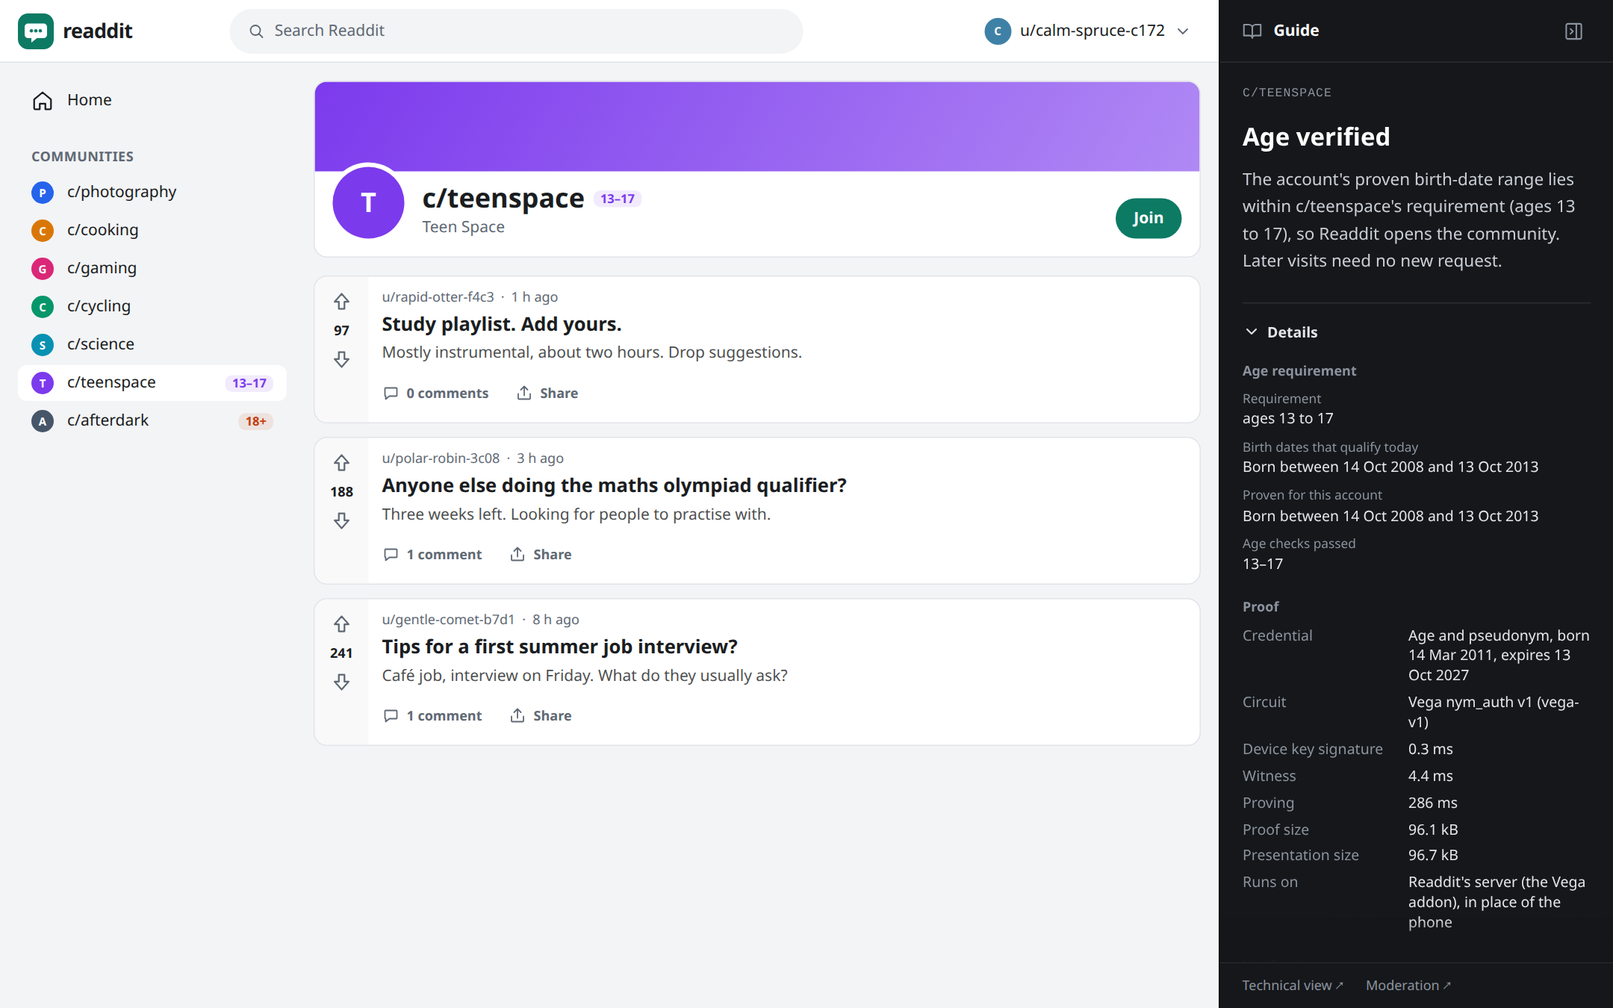
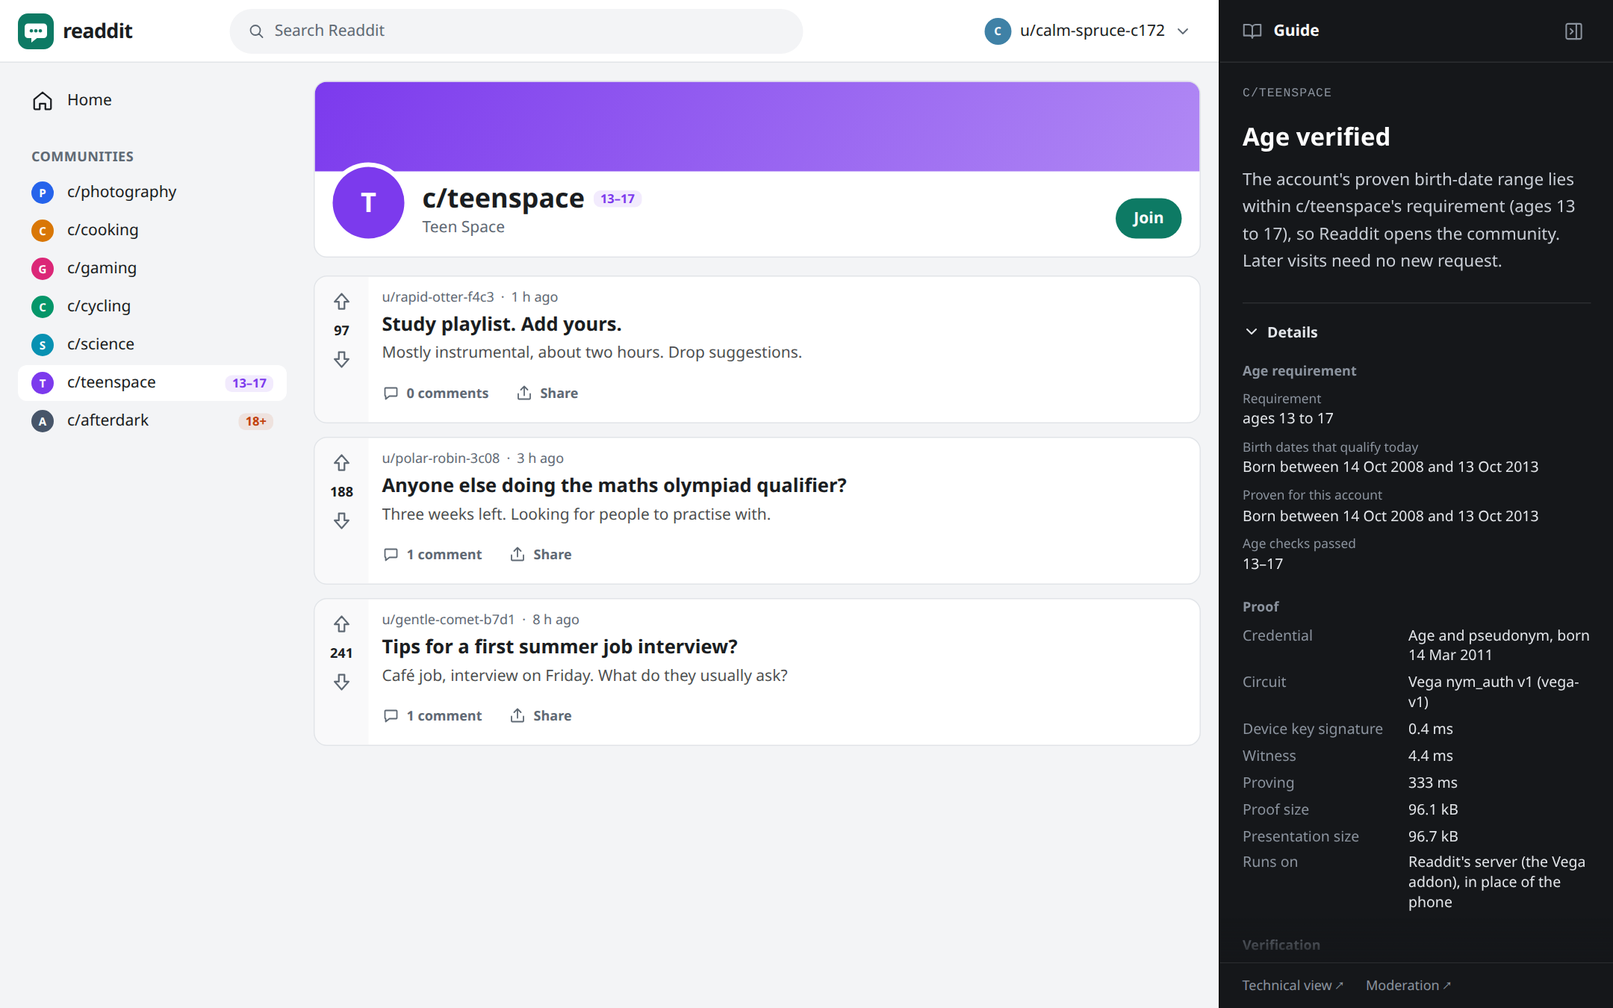
Wallet: the birth date on every credential card; no expiry shown
At Frédéric's request each nym_auth credential shows its holder's birth
date, labelled "Birth Date" and written DD/MM/YYYY as the SIROS ID app
writes dates: on the home cards, the detail page's card, the request
screen's credential box and both entries of the Switch credential
popup. It tells the two credentials apart, and stays on the phone:
nothing Readdit receives changes. The credentials do not expire, so no
expiry date is shown, as the SIROS ID app draws none for a credential
without one; the guide's credential details say "no expiry
(9999-12-31)".

The flows check now tells the credentials apart by their birth dates and
checks that no card shows an expiry date; the presentation order's
detail-page locator is exact. GETTING-STARTED and AGENTS describe the
birth dates, the non-expiring credentials and the re-issue with --keep.
The screenshots that show a card are regenerated, with the rest of both
runs.

Changed region(s): [[0.7755, 0.6222, 0.9926, 0.9333], [0.7755, 0.9333, 0.8065, 0.9644]]

diff --git a/app/components/wallet/Card.vue b/app/components/wallet/Card.vue
@@ -1,25 +1,34 @@
 <script setup lang="ts">
 import type { DisplayCredential } from '~/wallet/holder'
+import { sidDate } from '~/wallet/holder'
 
 // A credential card as the SIROS ID wallet draws one without issuer artwork:
 // packages/wallet-common/src/functions/CustomCredentialSvg.ts (829 × 504; background colour,
-// name at the top left, description below it, expiry at the bottom right). The reference sizes
-// the text for a 350 px card (Arial 35, 20 and 25); this 230 px phone card uses 1.5 times that,
-// so the text stays legible on a projector.
+// name at the top left, description below it, expiry at the bottom right, left empty when the
+// credential has none). The reference sizes the text for a 350 px card (Arial 35, 20 and 25); this
+// 230 px phone card uses 1.5 times that, so the text stays legible on a projector. A nym_auth card
+// also shows the holder's birth date with the wallet's claim label, which tells two credentials of
+// the same type apart.
 const props = defineProps<{ credential: DisplayCredential }>()
-const expiry = computed(() =>
-  props.credential.validUntil
-    ? new Date(props.credential.validUntil).toLocaleDateString('en-GB', { day: '2-digit', month: '2-digit', year: 'numeric', timeZone: 'UTC' })
-    : '',
-)
+const birth = computed(() => (props.credential.birthDate ? sidDate(props.credential.birthDate) : ''))
+const expiry = computed(() => (props.credential.validUntil ? sidDate(props.credential.validUntil) : ''))
 </script>
 
 <template>
-  <svg viewBox="0 0 829 504" class="block w-full rounded-xl" role="img" :aria-label="`${props.credential.title}, ${props.credential.issuer}`">
+  <svg
+    viewBox="0 0 829 504"
+    class="block w-full rounded-xl"
+    role="img"
+    :aria-label="`${props.credential.title}, ${props.credential.issuer}${birth ? `, birth date ${birth}` : ''}`"
+  >
     <rect width="100%" height="100%" :fill="props.credential.background" />
     <text x="50" y="96" font-family="Arial, Helvetica, sans-serif" font-size="52" :fill="props.credential.text">{{ props.credential.title }}</text>
     <text x="50" y="150" font-family="Arial, Helvetica, sans-serif" font-size="30" :fill="props.credential.text">{{ props.credential.issuer }}</text>
-    <text v-if="expiry" x="790" y="440" text-anchor="end" font-family="Arial, Helvetica, sans-serif" font-size="34" :fill="props.credential.text">
+    <!-- the bottom right, where the reference puts its date (the home slider's index sits at the bottom left) -->
+    <text v-if="birth" x="790" :y="expiry ? 390 : 440" text-anchor="end" font-family="Arial, Helvetica, sans-serif" font-size="40" :fill="props.credential.text">
+      Birth Date: {{ birth }}
+    </text>
+    <text v-if="expiry" x="790" y="440" text-anchor="end" font-family="Arial, Helvetica, sans-serif" font-size="30" :fill="props.credential.text">
       Expiry Date: {{ expiry }}
     </text>
   </svg>

diff --git a/app/components/wallet/TypeCard.vue b/app/components/wallet/TypeCard.vue
@@ -1,17 +1,15 @@
 <script setup lang="ts">
 import type { DisplayCredential } from '~/wallet/holder'
+import { sidDate } from '~/wallet/holder'
 
 // SIROS ID credential type card (src/components/Credentials/CredentialTypeCard.tsx): a square with
 // the name's first letter on the card colour, the name in a pill, the issuer below it, and a
-// chevron when it can be chosen. The expiry date is added, as on the credential card, so that two
-// credentials of the same type and issuer can be told apart.
+// chevron when it can be chosen. The birth date is added, as on the credential card, so that two
+// credentials of the same type and issuer can be told apart; an expiry date only if there is one.
 const props = defineProps<{ credential: DisplayCredential; clickable?: boolean }>()
 defineEmits<{ select: [] }>()
-const expiry = computed(() =>
-  props.credential.validUntil
-    ? new Date(props.credential.validUntil).toLocaleDateString('en-GB', { day: '2-digit', month: '2-digit', year: 'numeric', timeZone: 'UTC' })
-    : '',
-)
+const birth = computed(() => (props.credential.birthDate ? sidDate(props.credential.birthDate) : ''))
+const expiry = computed(() => (props.credential.validUntil ? sidDate(props.credential.validUntil) : ''))
 </script>
 
 <template>
@@ -19,7 +17,7 @@ const expiry = computed(() =>
     :is="props.clickable ? 'button' : 'div'"
     class="relative flex w-full items-center justify-between gap-4 rounded-lg p-2 text-left"
     :class="props.clickable && 'cursor-pointer border border-sid-gray-700 bg-sid-gray-200 text-sid-gray-900 shadow-xs hover:brightness-[0.85]'"
-    :aria-label="props.clickable ? `Select credential ${props.credential.title}, expiry date ${expiry}` : undefined"
+    :aria-label="props.clickable ? `Select credential ${props.credential.title}${birth ? `, birth date ${birth}` : ''}` : undefined"
     @click="props.clickable && $emit('select')"
   >
     <span class="flex w-full min-w-0 items-start justify-start gap-2">
@@ -37,7 +35,8 @@ const expiry = computed(() =>
           {{ props.credential.title }}
         </span>
         <span class="max-w-full truncate px-2 text-sm text-sid-gray-700">{{ props.credential.issuer }}</span>
-        <span v-if="expiry" class="max-w-full px-2 text-sm text-sid-gray-700">Expiry Date: {{ expiry }}</span>
+        <span v-if="birth" class="max-w-full px-2 text-sm font-semibold text-sid-gray-900">Birth Date: {{ birth }}</span>
+        <span v-if="expiry" class="max-w-full px-2 text-xs text-sid-gray-700">Expiry Date: {{ expiry }}</span>
       </span>
     </span>
     <WalletSirosIcon v-if="props.clickable" name="chevron-right" class="size-6 shrink-0" />

diff --git a/app/components/wallet/Request.vue b/app/components/wallet/Request.vue
@@ -1,17 +1,18 @@
 <script setup lang="ts">
 import type { ConsentView } from '~/wallet/engine'
+import { sidDate } from '~/wallet/holder'
 
 // SIROS ID presentation request (src/components/flows/PresentCredentialsFlow, PresentationOverviewScreen):
 // "Request to Share Data", the requester's name and domain, the requested information in a box
 // headed by the credential, "Switch credential" with the number of other matching credentials
 // when there are any, and Share / Decline in a fixed bar. The fields come from the request
-// (app/wallet/engine.ts, consentFor). With several matching credentials, the box also shows the
-// chosen one's expiry date, which tells two credentials of the same type apart.
-const props = defineProps<{ consent: ConsentView; credentialTitle: string; validUntil?: string; alternatives?: number }>()
+// (app/wallet/engine.ts, consentFor). Under its header the box shows the chosen credential's birth
+// date, which tells two credentials of the same type apart; it stays on the phone, and is not among
+// the requested information.
+const props = defineProps<{ consent: ConsentView; credentialTitle: string; birthDate?: string; validUntil?: string; alternatives?: number }>()
 defineEmits<{ accept: []; cancel: []; switch: [] }>()
-const expiry = computed(() =>
-  props.validUntil ? new Date(props.validUntil).toLocaleDateString('en-GB', { day: '2-digit', month: '2-digit', year: 'numeric', timeZone: 'UTC' }) : '',
-)
+const birth = computed(() => (props.birthDate ? sidDate(props.birthDate) : ''))
+const expiry = computed(() => (props.validUntil ? sidDate(props.validUntil) : ''))
 </script>
 
 <template>
@@ -34,7 +35,10 @@ const expiry = computed(() =>
                 <h3 class="font-bold" aria-live="polite">{{ props.credentialTitle }}</h3>
                 <WalletSirosIcon name="id-card" class="size-6" />
               </div>
-              <p v-if="props.alternatives && expiry" class="-mt-2 text-sm text-sid-gray-700">Expiry Date: {{ expiry }}</p>
+              <div v-if="birth || expiry" class="-mt-2 text-sm">
+                <p v-if="birth" class="font-semibold text-sid-gray-900">Birth Date: {{ birth }}</p>
+                <p v-if="expiry" class="text-xs text-sid-gray-700">Expiry Date: {{ expiry }}</p>
+              </div>
               <dl>
                 <template v-for="(f, i) in props.consent.fields" :key="f.name">
                   <dt class="font-bold" :class="i > 0 && 'mt-2 pt-2'">{{ f.name }}</dt>

diff --git a/app/wallet/holder.ts b/app/wallet/holder.ts
@@ -121,10 +121,13 @@ async function decode(holder: WalletMaterial, index: number): Promise<Credential
   }
 }
 
-/** A credential in the guide's words: its type, birth date and expiry, which tell the two apart. */
+/** validUntil 9999-12-31T23:59:59Z, the farthest a tdate holds: the credential does not expire. */
+export const neverExpires = (validUntil: string) => validUntil.startsWith('9999-12-31')
+
+/** A credential in the guide's words: its type and birth date, which tell the two apart, and its expiry if it has one. */
 export function credentialLabel(c: CredentialView): string {
   const d = (iso: string) => new Date(iso.length === 10 ? `${iso}T00:00:00Z` : iso).toLocaleDateString('en-GB', { day: 'numeric', month: 'short', year: 'numeric', timeZone: 'UTC' })
-  return `${c.title}, born ${d(c.attributes.birth_date)}, expires ${d(c.validity.validUntil)}`
+  return `${c.title}, born ${d(c.attributes.birth_date)}${neverExpires(c.validity.validUntil) ? '' : `, expires ${d(c.validity.validUntil)}`}`
 }
 
 export interface DisplayCredential {
@@ -133,12 +136,26 @@ export interface DisplayCredential {
   /** Card colour; the issuer gives no display metadata, so the wallet uses its brand colour. */
   background: string
   text: string
+  /** The holder's birth date (YYYY-MM-DD), on the holder's own screens; the tell between two credentials. */
+  birthDate?: string
+  /** Absent when the credential does not expire. */
   validUntil?: string
 }
+
+/** DD/MM/YYYY, as the SIROS ID wallet shows dates. */
+export const sidDate = (iso: string) =>
+  new Date(iso.length === 10 ? `${iso}T00:00:00Z` : iso).toLocaleDateString('en-GB', { day: '2-digit', month: '2-digit', year: 'numeric', timeZone: 'UTC' })
 
 /** Static card shown next to nym_auth so the wallet looks lived-in. Not used in any flow. */
 export const pidCard: DisplayCredential = { title: 'Personal ID', issuer: 'Demo Issuer', background: '#D3D3D3', text: '#000000' }
 
 export function nymCard(c: CredentialView | null): DisplayCredential {
-  return { title: c?.title ?? NYM_TITLE, issuer: c?.issuer.name ?? '', background: '#1C4587', text: '#FFFFFF', validUntil: c?.validity.validUntil }
+  return {
+    title: c?.title ?? NYM_TITLE,
+    issuer: c?.issuer.name ?? '',
+    background: '#1C4587',
+    text: '#FFFFFF',
+    birthDate: c?.attributes.birth_date,
+    validUntil: c && !neverExpires(c.validity.validUntil) ? c.validity.validUntil : undefined,
+  }
 }

diff --git a/app/components/wallet/Home.vue b/app/components/wallet/Home.vue
@@ -1,6 +1,6 @@
 <script setup lang="ts">
 import type { CredentialView } from '~/wallet/holder'
-import { nymCard, pidCard } from '~/wallet/holder'
+import { nymCard, pidCard, sidDate } from '~/wallet/holder'
 
 // SIROS ID home (src/pages/Home/Home.jsx): "Credentials" with the view toggle, the credential
 // cards (horizontal slider with stacked cards, or a list), and the recent history of the shown card.
@@ -20,7 +20,7 @@ const recent = computed(() => {
   const c = shown.value.credential
   return c ? props.history.filter((h) => h.credential === c.index).slice(0, 3) : []
 })
-const expiry = (iso?: string) => (iso ? new Date(iso).toLocaleDateString('en-GB', { day: '2-digit', month: '2-digit', year: 'numeric', timeZone: 'UTC' }) : '')
+const born = (iso?: string) => (iso ? `, birth date ${sidDate(iso)}` : '')
 const fmt = (t: number) => new Date(t).toLocaleString('en-GB', { day: '2-digit', month: '2-digit', year: 'numeric', hour: '2-digit', minute: '2-digit' })
 </script>
 
@@ -49,7 +49,7 @@ const fmt = (t: number) => new Date(t).toLocaleString('en-GB', { day: '2-digit',
           <button
             v-if="shown.credential"
             class="relative block w-full rounded-xl text-left shadow-md transition-shadow hover:shadow-lg"
-            :aria-label="`Open ${shown.display.title} details, expiry date ${expiry(shown.display.validUntil)}`"
+            :aria-label="`Open ${shown.display.title} details${born(shown.display.birthDate)}`"
             @click="emit('open', shown.credential.index)"
           >
             <WalletCard :credential="shown.display" />
@@ -83,7 +83,7 @@ const fmt = (t: number) => new Date(t).toLocaleString('en-GB', { day: '2-digit',
           <button
             v-if="card.credential"
             class="block rounded-xl text-left shadow-md hover:shadow-lg"
-            :aria-label="`Open ${card.display.title} details, expiry date ${expiry(card.display.validUntil)}`"
+            :aria-label="`Open ${card.display.title} details${born(card.display.birthDate)}`"
             @click="emit('open', card.credential.index)"
           >
             <WalletCard :credential="card.display" />

diff --git a/app/guide/steps.ts b/app/guide/steps.ts
@@ -13,7 +13,7 @@ import type { WalletPurpose } from '~/composables/useWallet'
 import type { CommunityAccess } from '~/composables/useCommunityAccess'
 import type { ConsentView } from '~/wallet/engine'
 import type { CredentialView } from '~/wallet/holder'
-import { credentialLabel } from '~/wallet/holder'
+import { credentialLabel, neverExpires } from '~/wallet/holder'
 import { ageText, birthRangeText, fmtDate, parseAuthorizationUrl } from '~/wallet/engine'
 
 export interface GuideRow {
@@ -209,7 +209,7 @@ function credentialSection(c: CredentialView | null): GuideSection | null {
       { label: 'Issuer', value: c.issuer.country ? `${c.issuer.name} (${c.issuer.country})` : c.issuer.name },
       { label: 'Issuer signature', value: `${c.mso.signatureAlgorithm}, ${c.issuer.documentSigner}` },
       { label: 'Attribute digests', value: c.mso.digestAlgorithm },
-      { label: 'Valid', value: `${fmtDate(c.validity.validFrom)} to ${fmtDate(c.validity.validUntil)}` },
+      { label: 'Valid', value: `From ${fmtDate(c.validity.validFrom)}; ${neverExpires(c.validity.validUntil) ? 'no expiry (9999-12-31)' : `until ${fmtDate(c.validity.validUntil)}`}` },
       { label: 'Device key', value: `${c.deviceKey.kty} ${c.deviceKey.crv}` },
       { label: 'Size', value: `${c.sizes.issuerSigned.toLocaleString('en-GB')} bytes` },
     ],

diff --git a/app/components/wallet/Detail.vue b/app/components/wallet/Detail.vue
@@ -1,11 +1,13 @@
 <script setup lang="ts">
 import type { CredentialView } from '~/wallet/holder'
-import { nymCard } from '~/wallet/holder'
+import { neverExpires, nymCard } from '~/wallet/holder'
 
 // SIROS ID credential page on a phone (src/pages/Home/Credential.jsx, CredentialInfo.jsx): back
 // arrow and name, the card, the claims as "label: value" rows with the wallet's own labels
 // (Birth Date, Issuance Date, Expiry Date), and the Presentations button. The wallet's Dataset
 // button, which shows the raw claims, is left out.
+// A credential that does not expire (validUntil 9999-12-31) has no Expiry Date row, as the
+// wallet shows no expiry for it.
 const props = defineProps<{ credential: CredentialView }>()
 const emit = defineEmits<{ back: []; scan: []; presentations: [] }>()
 
@@ -16,7 +18,7 @@ const rows = computed(() => {
   return [
     { label: 'Birth Date', value: date(c.attributes.birth_date) },
     { label: 'Issuance Date', value: date(c.validity.signed) },
-    { label: 'Expiry Date', value: date(c.validity.validUntil) },
+    ...(neverExpires(c.validity.validUntil) ? [] : [{ label: 'Expiry Date', value: date(c.validity.validUntil) }]),
   ]
 })
 </script>

diff --git a/app/components/wallet/App.vue b/app/components/wallet/App.vue
@@ -7,7 +7,7 @@ import type { ProofMetrics, WalletScreen } from '~/composables/useFlow'
 import type { ProveOutput } from '~/wallet/prover'
 import { analyzeRequest, consentFor, parseAuthorizationUrl } from '~/wallet/engine'
 import { TransportError, httpTransport } from '~/wallet/transport'
-import { loadCredentials } from '~/wallet/holder'
+import { loadCredentials, nymCard } from '~/wallet/holder'
 import { ProverError, prove, unlockAndSign } from '~/wallet/prover'
 import { findCircuit } from '#shared/registry/circuits'
 
@@ -304,7 +304,8 @@ onBeforeUnmount(() => {
           key="request"
           :consent="consent"
           :credential-title="current?.title ?? ''"
-          :valid-until="current?.validity.validUntil"
+          :birth-date="current?.attributes.birth_date"
+          :valid-until="current ? nymCard(current).validUntil : undefined"
           :alternatives="alternatives.length"
           @accept="toPin"
           @cancel="refuse('declined', 'request')"

diff --git a/GETTING-STARTED.md b/GETTING-STARTED.md
@@ -84,8 +84,9 @@ On the phone (SIROS ID), the screens and their wording follow the SIROS ID walle
 - **Cancel** at the PIN declines as **Decline** does: "Sharing Cancelled", and nothing is shared.
 - A QR code works once and for 10 minutes. Scanning it again, or after it expired, shows
   "Request Expired"; the dialog's **Try again** shows a new one.
-- **The "Age and pseudonym" cards** open each credential: birth date, issuance and expiry dates,
-  and **Presentations**, the list of presentations made with it.
+- **The "Age and pseudonym" cards** show each holder's birth date, and open the credential: birth
+  date, issuance date, and **Presentations**, the list of presentations made with it. The
+  credentials do not expire, so no expiry date is shown.
 
 **The guide panel** follows the flow by itself. For the current step it shows a title and a short
 summary; **Details** opens the technical facts of that step: the request, the pseudonym's properties
@@ -95,9 +96,9 @@ it, all on this machine), and what Readdit checks. All of it is derived from the
 The panel's button at the top right collapses it to a narrow strip; the browser remembers the
 choice. Its footer links to the technical and moderation views.
 
-The wallet holds two "Age and pseudonym" credentials, told apart by their expiry dates: the demo
-person's, 15 years old (born 14 March 2011, expires 13 October 2027), which every request uses
-first, and an adult's (born 20 May 1990, expires 11 October 2028). Each has its own secret seed, so
+The wallet holds two "Age and pseudonym" credentials, told apart by the birth date on each card:
+the demo person's, 15 years old (born 14 March 2011), which every request uses first, and an
+adult's (born 20 May 1990). Each has its own secret seed, so
 each gives Readdit a different pseudonym and so a different account. When both match a request,
 **Switch credential** on the request screen, or on "Requirement Not Met", chooses the other one.
 
@@ -237,15 +238,17 @@ them before writing:
 
 ```sh
 cd native/vega
-cargo run --release -p nym-issuer -- --holder 2011-03-14:366 --holder 1990-05-20:730 \
+cargo run --release -p nym-issuer -- --holder 2011-03-14 --holder 1990-05-20 \
+  --valid-from 2026-10-13 --valid-until 9999-12-31T23:59:59Z --keep ../../app/wallet/demo-wallet.json \
   --wallet-out ../../app/wallet/demo-wallet.json --trust-out demo/document-signer.pem
 ```
 
-Each credential is valid from the day before issuing (`--valid-from`) for the number of days after
-its birth date (`:366`), or `--days` (default 366); the different validities give the two cards
-different expiry dates.
-The issuer's key is written nowhere. Each run makes new keys and seeds, so the pseudonyms and the
-accounts change; restart the site after it.
+The credentials do not expire: `validUntil` is `9999-12-31T23:59:59Z`, the farthest an mdoc tdate
+holds, and the Document Signer certificate's `notAfter` is `99991231235959Z`, RFC 5280's value for
+no well-defined expiration. `--keep` reuses each holder's device key and secret seed from the
+current wallet file, so the pseudonyms and the accounts stay the same; without it, each run makes
+new keys and seeds, and the pseudonyms change. `--days N` (or `--holder DATE:N`) gives a validity of
+N days instead. The issuer's key is written nowhere. Restart the site after a re-issue.
 
 ## Checks
 

diff --git a/AGENTS.md b/AGENTS.md
@@ -64,7 +64,7 @@ current decisions; the replaced ones are quoted in them.
 | Copy | Tight and plain. It must not sound like marketing or AI-written text. The wallet uses the SIROS ID wallet's English strings (`src/locales/en.json`) wherever one exists; screens the real wallet lacks ("Requirement Not Met") are written in the same style. |
 | Guide | **Added 2026-10-13 (Frédéric):** a guide panel docked at the right edge, styled apart from the product, collapsible. It follows the flow state by itself (`app/guide/steps.ts`): for the current step a title and a neutral summary of 1 to 3 sentences, and optional Details with the technical facts, each derived from the request, the credential, the circuit's registry entry, the rulebook properties (`app/wallet/rulebook.ts`) and the measured metrics (the prover's and, apart, the verifier's). It claims nothing the rulebook or the code does not. |
 | Flow | Nothing is scripted. Each community has a gate `{ minAge?, maxAge? }` and the site reacts to any click order. |
-| Credential | **Changed 2026-10-13 (Frédéric):** the wallet holds two `nym_auth` credentials from one Document Signer: the teen's (born 2011-03-14, the default for every request) and an adult's (born 1990-05-20). Each covers both pseudonym and age, with its own seed, so each gives its own pseudonym and account. When both match a request, the request screen offers "Switch credential", as the SIROS ID app does. Was: "One `nym_auth` attestation covers both pseudonym and age." |
+| Credential | **Changed 2026-10-13 (Frédéric):** the wallet holds two `nym_auth` credentials from one Document Signer: the teen's (born 2011-03-14, the default for every request) and an adult's (born 1990-05-20). Each covers both pseudonym and age, with its own seed, so each gives its own pseudonym and account. Each card shows the holder's birth date ("Birth Date"), which tells them apart; the birth date stays on the phone. They do not expire: validUntil `9999-12-31T23:59:59Z` and the Document Signer's notAfter `99991231235959Z`; the product shows no expiry. When both match a request, the request screen offers "Switch credential", as the SIROS ID app does. Was: "One `nym_auth` attestation covers both pseudonym and age." |
 | Pseudonym config | `known-offender-matching-ssc` with `verifier_id_type: x509_san_dns`. `client_id = x509_san_dns:<siteHost>` is also the `verifier_id`. |
 | Age binding | Every age request also asks for the pseudonym in the same `req`. The site accepts the age result only if the pseudonym equals the logged-in account's pseudonym. |
 | Logged-out gated community | **Changed 2026-10-13 (Frédéric's report "the after dark is locked without having verified the age"):** a logged-out visitor at an age-restricted community sees its age requirement and one button, which starts one request for the pseudonym and the age range: it creates the account or logs in to it, and records the age. Plain log-in and sign-up still ask for the pseudonym only. Was: "Log in to view" with a lock, then a second request for the age. |
